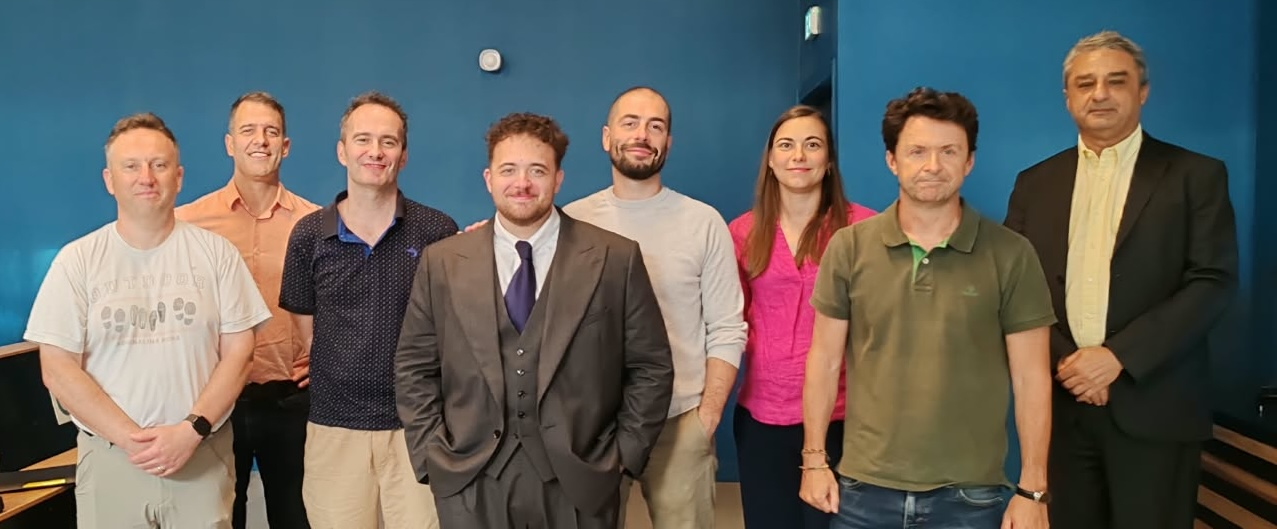
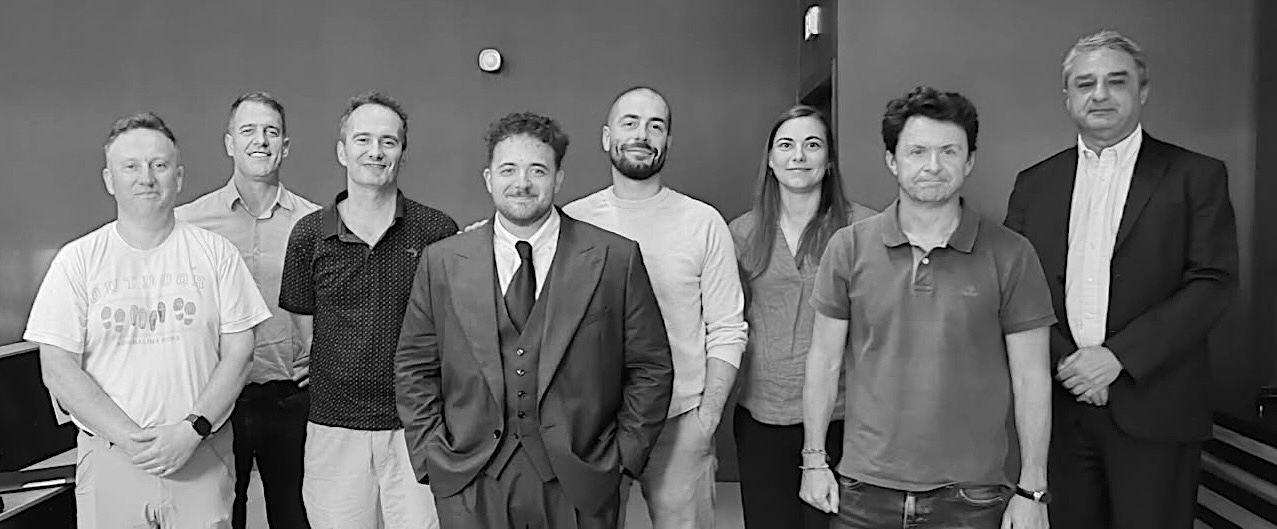
a

diff --git a/_includes/author-profile.html b/_includes/author-profile.html
@@ -10,7 +10,24 @@
     {% if author.avatar contains "://" %}
     	<img src="{{ author.avatar }}" alt="{{ author.name }}">
     {% else %}
-    	<img src="{{ author.avatar | prepend: "/images/" | prepend: base_path }}" class="author__avatar" alt="{{ author.name }}">
+      <img src="{{ author.avatar | prepend: "/images/" | prepend: base_path }}"{% if author.avatar_alt %} data-avatar-alt="{{ author.avatar_alt | prepend: "/images/" | prepend: base_path }}"{% endif %} class="author__avatar" alt="{{ author.name }}">
+      {% if author.avatar_alt %}
+      <script>
+        (function (image) {
+          var storageKey = 'sacha-profile-avatar-next';
+          var primary = image.src;
+          var alternative = image.dataset.avatarAlt;
+          var showAlternative = false;
+          try {
+            showAlternative = window.localStorage.getItem(storageKey) === 'alternative';
+            window.localStorage.setItem(storageKey, showAlternative ? 'primary' : 'alternative');
+          } catch (error) {
+            showAlternative = Math.random() >= .5;
+          }
+          image.src = showAlternative ? alternative : primary;
+        }(document.currentScript.previousElementSibling));
+      </script>
+      {% endif %}
     {% endif %}
   </div>
 

diff --git a/_pages/about.md b/_pages/about.md
@@ -230,16 +230,17 @@ Gave a talk to undergraduate and master’s students about what it’s like to p
   position: fixed;
   top: 50%;
   right: 1rem;
+  left: 1rem;
   z-index: 999;
   display: flex;
   align-items: center;
-  gap: 2.25rem;
-  max-width: calc(100vw - 2rem);
+  justify-content: space-between;
+  gap: 3rem;
   transform: translateY(-50%);
 }
 .about-phd-playlist-egg__photo {
   display: block;
-  width: clamp(24rem, 48vw, 46rem);
+  width: min(60vw, 58rem);
   height: auto;
   border: 1px solid color-mix(in srgb, var(--global-link-color) 48%, transparent);
   border-radius: 1rem;
@@ -266,7 +267,7 @@ Gave a talk to undergraduate and master’s students about what it’s like to p
     width: min(18rem, calc(100vw - 1.3rem));
   }
 }
-@media (max-width: 760px) {
+@media (max-width: 980px) {
   .about-phd-playlist-egg {
     top: 50%;
     right: .65rem;
